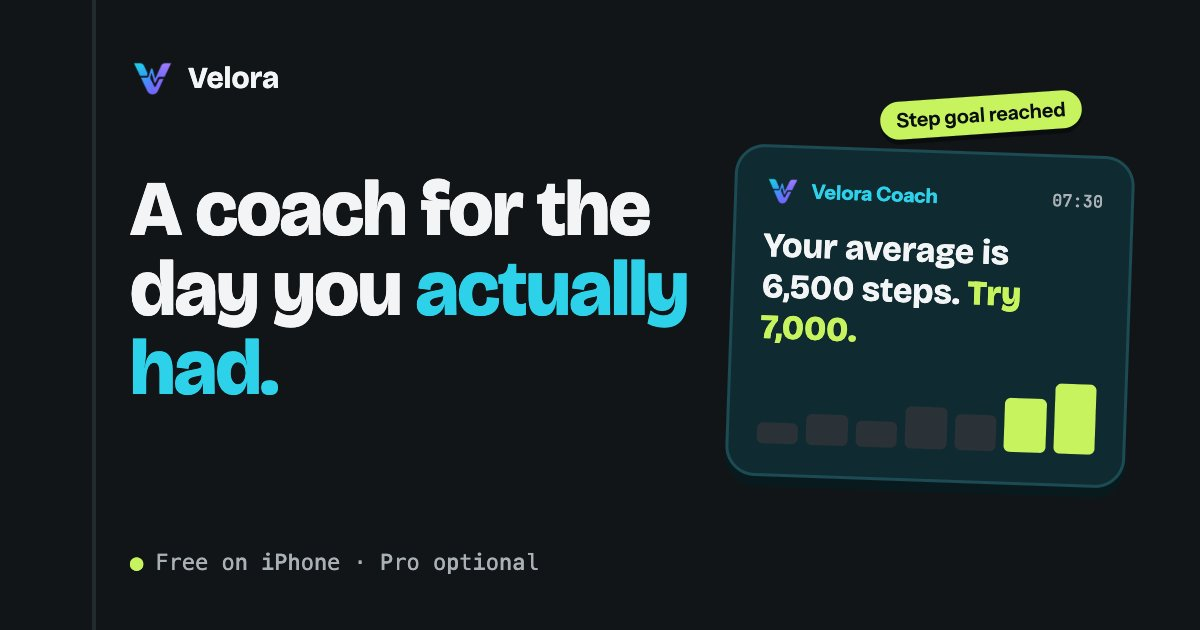
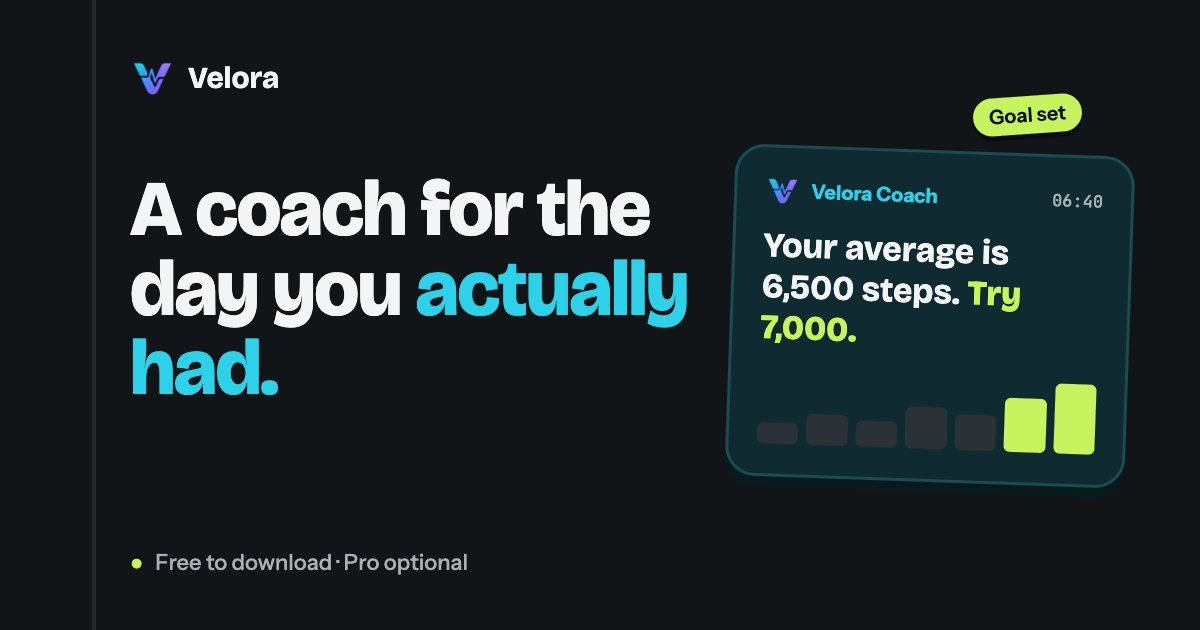
fix: state freemium pricing on the share card and its alt text

Changed region(s): [[0.7092, 0.1206, 0.8942, 0.2413], [0.0925, 0.8746, 0.4625, 0.9048], [0.8633, 0.3016, 0.925, 0.3317]]

diff --git a/tools/og/og-card.html b/tools/og/og-card.html
@@ -14,7 +14,7 @@ body { width: 1200px; height: 630px; overflow: hidden; background: #111517; colo
 .brand img { width: 44px; height: 44px; border-radius: 12px; }
 h1 { position: absolute; left: 130px; top: 170px; width: 560px; font: 800 78px/1.02 'Bricolage Grotesque', sans-serif; letter-spacing: -0.02em; }
 h1 span { color: #2ed1ea; }
-.foot { position: absolute; left: 130px; bottom: 56px; display: flex; gap: 12px; font: 500 22px/1 'JetBrains Mono', monospace; color: #a9b1b6; }
+.foot { position: absolute; left: 130px; bottom: 56px; display: flex; gap: 12px; font: 500 22px/1 'Instrument Sans', sans-serif; color: #a9b1b6; }
 .foot i { font-style: normal; color: #c6f35e; }
 .card { position: absolute; right: 70px; top: 150px; width: 400px; padding: 26px 28px 30px; background: #0f2a30; border: 3px solid #1d4b54; border-radius: 30px; box-shadow: 0 10px 0 #081a1e; transform: rotate(2deg); }
 .head { display: flex; align-items: center; gap: 12px; margin-bottom: 18px; }
@@ -33,10 +33,10 @@ h1 span { color: #2ed1ea; }
 <div class="rail"></div>
 <div class="brand"><img src="../../images/logo-56.png" alt="" />Velora</div>
 <h1>A coach for the day you <span>actually had.</span></h1>
-<div class="foot"><i>&#9679;</i> Free on iPhone &middot; Pro optional</div>
-<div class="tag">Step goal reached</div>
+<div class="foot"><i>&#9679;</i> Free to download &middot; Pro optional</div>
+<div class="tag">Goal set</div>
 <div class="card">
-  <div class="head"><img src="../../images/logo-56.png" alt="" /><strong>Velora Coach</strong><time>07:30</time></div>
+  <div class="head"><img src="../../images/logo-56.png" alt="" /><strong>Velora Coach</strong><time>06:40</time></div>
   <p class="line">Your average is 6,500 steps. <b>Try 7,000.</b></p>
   <div class="bars">
     <i style="height:30%"></i><i style="height:45%"></i><i style="height:38%"></i><i style="height:60%"></i><i style="height:52%"></i><i class="on" style="height:78%"></i><i class="on" style="height:100%"></i>

diff --git a/tr/index.html b/tr/index.html
@@ -23,7 +23,7 @@
   <meta property="og:title" content="Velora · Gerçekten yaşadığın gün için bir koç" />
   <meta property="og:description" content="Velora Koç, iPhone'undaki Sağlık verilerini okur; adımların, antrenmanların ve suyun hakkında kısa, sade notlar yazar. Cihazda çalışır, hesap gerekmez." />
   <meta property="og:image" content="https://velorahealthcompanion.com/images/og.jpg" />
-  <meta property="og:image:alt" content="Velora: yaşadığın günün koçu. Koç kartı ortalamanın 6.500 adım olduğunu söylüyor ve 7.000 öneriyor. iPhone için ücretsiz." />
+  <meta property="og:image:alt" content="Velora: yaşadığın günün koçu. Koç kartı ortalamanın 6.500 adım olduğunu söylüyor ve 7.000 öneriyor. İndirmesi ücretsiz, Pro isteğe bağlı." />
   <meta property="og:locale" content="tr_TR" />
   <meta property="og:locale:alternate" content="en_US" />
   <meta name="twitter:card" content="summary_large_image" />

diff --git a/index.html b/index.html
@@ -23,7 +23,7 @@
   <meta property="og:title" content="Velora · A coach for the day you actually had" />
   <meta property="og:description" content="Velora Coach reads the Health data on your iPhone and writes short, plain notes about your steps, workouts and water. On-device, no account." />
   <meta property="og:image" content="https://velorahealthcompanion.com/images/og.jpg" />
-  <meta property="og:image:alt" content="Velora: a coach for the day you actually had. The Coach card says your average is 6,500 steps and suggests 7,000. Free on iPhone." />
+  <meta property="og:image:alt" content="Velora: a coach for the day you actually had. The Coach card says your average is 6,500 steps and suggests 7,000. Free to download, Pro optional." />
   <meta property="og:locale" content="en_US" />
   <meta property="og:locale:alternate" content="tr_TR" />
   <meta name="twitter:card" content="summary_large_image" />
